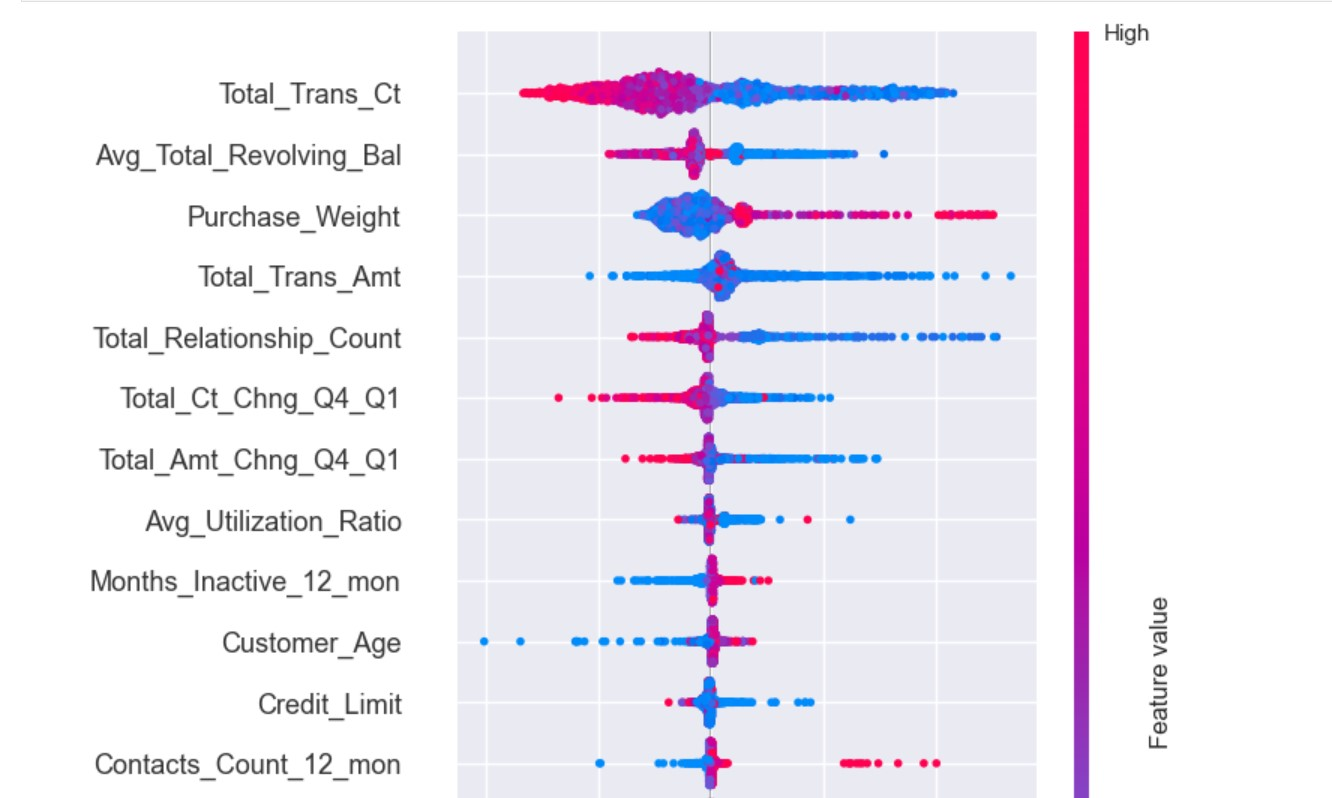
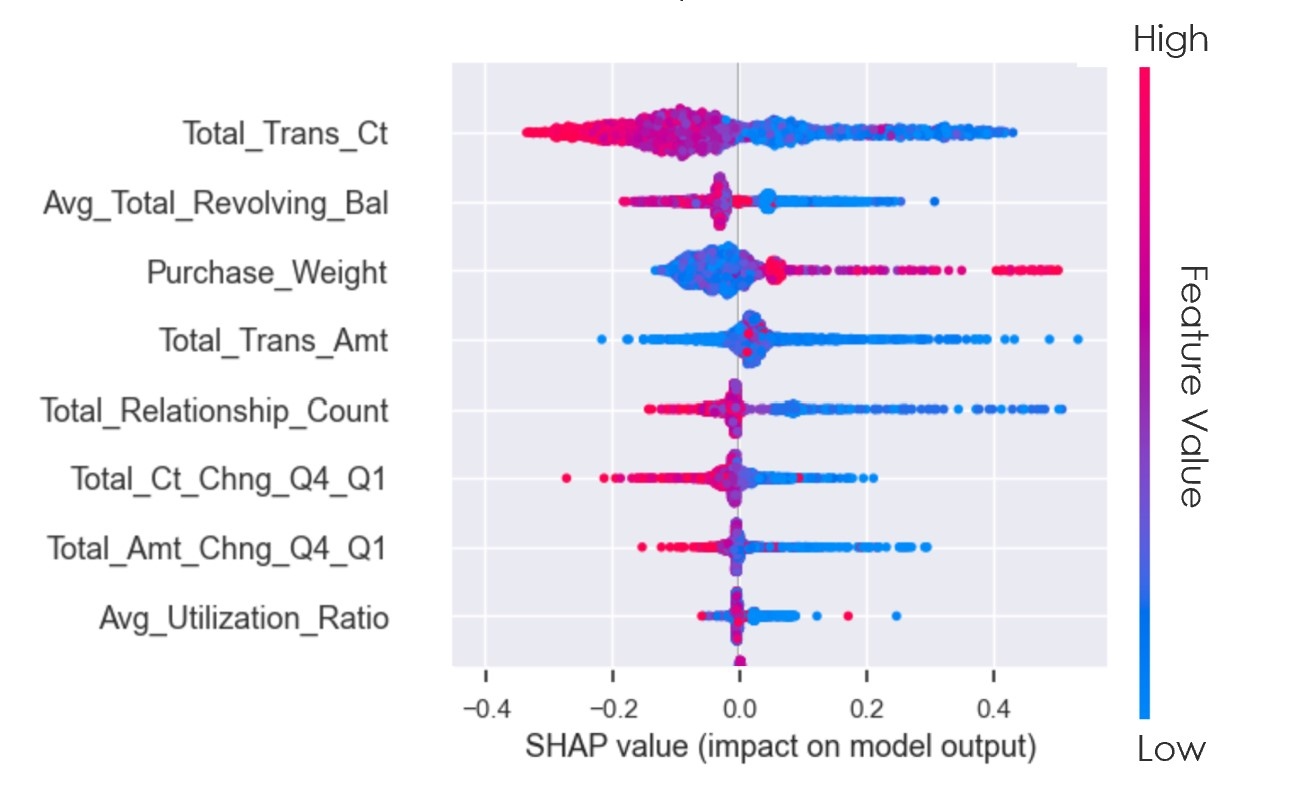
scotiabank

diff --git a/index.html b/index.html
@@ -614,7 +614,7 @@
         <div class="container">
           <img class="myCases container image overlay" id="myImg" src="/media/shapcover.jpg" style="filter: grayscale(100%);" alt="">
           <div class="middle">
-            <a class="myCases text" id="myImg" href="#shap">Random Forest & SHAP Values<br><br>2022</a>
+            <a class="myCases text" id="myImg" href="#shap">Case - Random Forest & SHAP Values<br><br>2022</a>
           </div>
         </div>
     
@@ -629,83 +629,89 @@
             </div>
             <div class="modal-body" style="text-align: center;">
               <h1 style="font-size: 32px;">Case - Random Forest & SHAP Values (2022)</h1>
-              <p>The following project was carried out for Scotiabank, a major Canadian bank, aiming to understand the factors that help predict its customers' turnover.  </p>
-              <a class="btn1 btn-secondary btn1 text-uppercase" href="https://app.powerbi.com/view?r=eyJrIjoiYTU2YjAwMDktMWU2My00MDYzLWI3NDItYTYzZGM3MzFhYzEwIiwidCI6ImZiY2RmY2NmLTQ4MjItNGM2Yy04ZDRkLTk3OTM1MDhkM2I4NCJ9">Report</a>
+              <p>The following project was carried out for a major Canadian bank, aiming to understand the factors that help predict its customer churn.</p>
+              <a class="btn1 btn-secondary btn1 text-uppercase" href="https://github.com/tuliovp/bank_turnover/tree/master">Github</a>
                 <div class="case_content">
                   <h1>Description</h1>
                   <hr>
                   <p>
-                    This is a 3-month course to master in-demand skills necessary to become a data analyst like data pre-processing, visualization and analysis using Microsoft Power BI as the primary tool.
+                    The base-model used for performance comparison was Logistic Regression. However, Random Forest Classifier provided better predictions and a lower acceptable MAE and RMSE. SHAP values helped to interpret the importance of each independent variable.
                     <br><br>
-                    The following sections had projects for each one and were mandatory as part of the syllabus:
+                    Customer churn is one of the most important metrics for a growing business to evaluate. While it's not the happiest measure, it's a number that can give your company the hard truth about its customer retention. Data analysis can help. We have information regarding more than 10 thousand customers and 19 features, the columns of the dataset that can be used as independent variables. The idea is to understand what drives the attrition and possible solutions.
+                    <br>
+                    I have used Python to do the pre-processing, cleaning, and exploratory analysis in a Jupyter Notebook.
+                    As I found “smoke signals” or anything that caught my attention, I used Power BI for more interactive views and to save time. The cleaning process was simple: 
                     <ol>
-                      <li>Introduction to Preparing and Modeling Data</li>
-                      <li>Creating Visualizations with Power BI</li>
-                      <li>Advanced Data Analysis</li>
+                      <li>No missing values;</li>
+                      <li>No negative values;</li>
+                      <li>No duplicate rows/user ID’s;</li>
+                      <li>Convert datatype of <code>Credit_Limit</code> and <code>Avg_Open_To_Buy</code> to int, to save memory;</li>
+                      <li>Convert datatype of <code>Attrition_Flag to bool</code>, to save memory;</li>
+                      <li>No need for <code>CLIENTNUM</code>, an index will do the job as there are no duplicates;</li>
+                      <li>No need for <code>Avg_Open_To_Buy</code>, as <code>Credit_Limit</code>, <code>Total_Revolving_Bal</code> and <code>Avg_Utilization_Ratio</code> are enough and more useful (also, taking it out will avoid multicollinearity later on)</li>
                     </ol>
-                    Some topics studied include:
+                    Three features were extracted in the process:
                     <ul>
-                      <li>Power BI’s built-in Extract-Transform-Load (ETL) tool</li>
-                      <li>Power Query and M</li>
-                      <li>Foundational data modeling principles</li>
-                      <li>DAX (Data Analytics Expressions)</li>
-                      <li>Advanced data visuals</li>
-                      <li>Filters and Slicers</li>
-                      <li>Drill-through and Bookmarks</li>
-                      <li>Accessibility and user-friendly design</li>
-                      <li>Statistics and Forecasting (Linear Regression)</li>
-                      <li>Custom formulas</li>
-                      <li>Troubleshooting and optimization</li>
+                      <li><code>Increased Amt Change</code> 𝑄𝑜𝑄=𝟏 𝑖𝑓 𝐴𝑚𝑡 𝐶ℎ𝑎𝑛𝑔𝑒 𝑄𝑜𝑄>1</li>
+                      <li> <code>Increased Ct Change</code> 𝑄𝑜𝑄=𝟏 𝑖𝑓 𝐶𝑡 𝐶ℎ𝑎𝑛𝑔𝑒 𝑄𝑜𝑄>1</li>
+                      <li><code>Purchase Weight</code> =  (𝑇𝑟𝑎𝑛𝑠𝑎𝑐𝑡𝑖𝑜𝑛 𝐴𝑚𝑜𝑢𝑛𝑡)/(𝑇𝑟𝑎𝑛𝑠𝑎𝑐𝑡𝑖𝑜𝑛 𝐶𝑜𝑢𝑛𝑡)</li>
                     </ul>
-                    <img src="/media/udacity_pbi.jpg">  
+                    <br>
+                    <iframe src="https://nbviewer.org/github/tuliovp/bank_turnover/blob/master/1.%20Cleaning.ipynb" title="Scotia - Cleaning" width="100%" height="350px"></iframe>
                     <br><br>
-                    <b>Customer Insights:</b><br><br>
-                    <img src="/media/pbi_customer_insights.jpg">
+                    <br>
+                    <b>Exploratory Analysis:</b><br><br>
+                    <br>
+                    An analysis of key influencers in Power BI shows that <code>attrition_flag</code> is more likely to increase (1 – meaning the client leaves the bank), when they are reached out by more than 5 marketing campaigns. The average of <code>attrition_flag</code> grows by 0.84.
+                    On the other hand, when clients have an average revolving balance, that is, the balance that carries over from one month to the next, between 581-2382, the average of the <code>attrition_flag</code> is more likely to decrease (it falls around 0.3)
+                    <br><br><img src="/media/scotia1_keyinfluencers.jpg">
+                    <br><br><img src="/media/scotia2_heavyusers.jpg">
+                    <br><br><img src="/media/scotia3_transactions.jpg">
                     <br><br>
-                    <b>Product Insights:</b><br><br>
-                    <img src="/media/pbi_product_insights.jpg"> 
+                    <iframe src="https://nbviewer.org/github/tuliovp/bank_turnover/blob/master/2.%20EDA.ipynb" title="Scotia - Cleaning" width="100%" height="350px"></iframe>
                     <br><br>
-                    <b>Demographics:</b><br><br>
-                    <img src="/media/pbi_demographics.jpg"> 
+                    <br>
+                    <b>Predicting Churn:</b><br><br>
+                    <br>
+                    To create the base model, I used logistic regression, because it was the most obvious one. Problems having binary outcomes, such as Yes/No, 0/1, True/False, are the ones that we call classification problems. For the best fit of categorical dependent variables, like our case, a curve is required which is being possible with the help of Logistic Regression.
+                    I thought the model could be improved - Pseudo R-squ.: 0.5068, in addition to several variables not being statistically significant (p-value greater than 0.05), so I performed a feature importance process using Decision Trees to try to reduce the number of variables and tested a Random Forest algorithm.
+                    In the end, we ended up with 8 main features that most explain a churn rate prediction, from 0 to 1.
                     <br><br>
-                    <b>Linear Regression:</b><br><br>
-                    <img src="/media/pbi_correlations.jpg"> 
+                    As we saw in the exploratory analysis, classes are unbalanced (84/16). So I use StratifiedShuffleSplit to split the train and test model, using 80% to train and 20% to test the predictions. Also we need to turn categorical variables into dummy variables - binary "switches" that turn the parameters in the equation on or off.
+                    <br><br><img src="/media/scotia4_train.jpg">
                     <br><br>
-                    <b>Analysis:</b><br><br>
-                    The following is a fairly simple analysis - as the goal of the course was mainly to learn technical features - from data related to our 1,000 customers, 17 products in our inventory and general demographic sources about the clients’ locations. <br><br>We may first notice the distribution of the average income by state is concentrated on the east side (District of Columbia having the highest), although California is where the company has more customers.
+                    When there are several categorical independent variables, such as age, gender, salary range, Random Forest usually performs better than a Logistic Regression. But mainly, in addition to having given good predictions and an acceptable MAE and RMSE, it's not a black-box. That means we can measure the importance of each feature, as well as estimate the strength of the ensemble, correlation and generalization error (PE) in each division of the tree, allowing the model to be adjusted and validated during training.
+                    <br><br><img src="/media/scotia5_rf.jpg">
                     <br><br>
-                    <img src="/media/pbi_maps.jpg"> 
-                    <br><br>
-                    There is a visible correlation between Sales and Customer’s Income, with a R² of 0.78, as well as between the products’ Customer Rating and Return Rate, with a R² of 0.69. The linear regression models for both are as follows:
-                    <br><br>
-                    <img src="/media/pbi_correlations_report.jpg"> 
-                    <br><br>
-                    However, despite the positive correlation between Income and Purchases (Sales), we are able to see that the customers with a predicted income between $70,000 and $89,000 are currently the biggest group, spending more – in total - than customers who earn from $90,000 to $109,000. The ones with a predicted income of $110,000 or more comes as the third biggest group, and higher sum of purchases – being the one we should focus during the marketing campaign. See below:
-                    <br><br>
-                    <img src="/media/pbi_customer_pred_income.jpg"> 
-                    <br><br>
-                    Looking by individual purchases, instead of the total, can confirm that the ones spending more (> $110.00 per purchase) are the ones with the highest average predicted income. The bigger group being individual purchases with values higher than $130.00. Furthermore, ages between 40 and 43 should be priorised.
-                    <br><br>
-                    <img src="/media/pbi_6monthpur_predincome.jpg"> 
-                    <br><br>
-                    The customer with the highest predicted income is Jon Little (ID JLit30836) and the Spring T-Shirt is the product that will be advertised the most. The algorithm that decides which product to recommend is a mix of the average temperature of the customer’s state and their predicted income, as seen below:
-                    <br><br>
-                    <img src="/media/pbi_product_fit.jpg"> 
+                    <b>Analysis using SHAP values:</b><br><br>
+                    SHAP values (SHapley Additive exPlanations) is a method based on cooperative game theory and used to increase transparency and interpretability of machine learning models. SHAP values interpret the impact of having a certain value for a given feature in comparison to the prediction we'd make if that feature took some baseline value. 
+                    <br><br>Linear models, for example, can use their coefficients as a metric for the overall importance of each feature, but they are scaled with the scale of the variable itself, which might lead to distortions and misinterpretations. Also, the coefficient cannot account for the local importance of the feature, and how it changes with lower or higher values. The same can be said for feature importances of tree-based models, and this is why SHAP is useful for interpretability of models.
+                    <br>We could ask "How much was a prediction driven by the fact that the team scored 3 goals?" But it's easier to give a concrete, numeric answer if we restate this as "How much was a prediction driven by the fact that the team scored 3 goals, instead of some baseline number of goals?" - 
+                    Of course, each team has many features. <br>So if we answer this question for number of goals, we could repeat the process for all other features.
+                    <br><br>SHAP values do this in a way that guarantees a nice property. Specifically, you decompose a prediction with the following equation:
+                    <code>sum(SHAP values for all features) = pred_for_team - pred_for_baseline_values</code>
+                    <br><br><img src="/media/scotia6_shap1.jpg">
+                    <br><img src="/media/scotia6_shap2.jpg">
+                    <br><br><img src="/media/scotia6_shap3.jpg">
+                    <br><br><img src="/media/scotia6_shap4.jpg">
+                    <br><br><img src="/media/scotia6_shap5.jpg">
+                    <br><br><img src="/media/scotia6_shap6.jpg">
+                    <br><br><img src="/media/scotia6_shap7.jpg">
+                    <br><br><img src="/media/scotia6_shap8.jpg">
+                    <br><br><img src="/media/scotia6_shap9.jpg">
+                    <iframe src="https://nbviewer.org/github/tuliovp/bank_turnover/blob/master/3.%20Models%20-%20RF.ipynb" title="Scotia - Cleaning" width="100%" height="350px"></iframe>
                     <br><br>
                   </p>
                   <br>
                   <h1>Read more</h1>
                   <hr>
                   <p>
-                  Feel free to download the repository and check how everything's working for yourself in the Report link below. And please let me know if you have any comments.
+                  Feel free to download the repository and check how everything's working for yourself in the Github link below. And please let me know if you have any comments.
                   </p>
                     <br>
                     <div class="row">
                       <div class="column">
-                        <a class="btn btn-secondary btn text-uppercase" href="https://app.powerbi.com/view?r=eyJrIjoiYTU2YjAwMDktMWU2My00MDYzLWI3NDItYTYzZGM3MzFhYzEwIiwidCI6ImZiY2RmY2NmLTQ4MjItNGM2Yy04ZDRkLTk3OTM1MDhkM2I4NCJ9">Report</a>
-                      </div>
-                      <div class="column">
-                        <a class="btn btn-secondary btn text-uppercase" href="https://github.com/tuliovp/udacity_pbi">GitHub</a>
+                        <a class="btn btn-secondary btn text-uppercase" href="https://github.com/tuliovp/bank_turnover/tree/master">Github</a>
                       </div>
                     </div>
                 </div>
